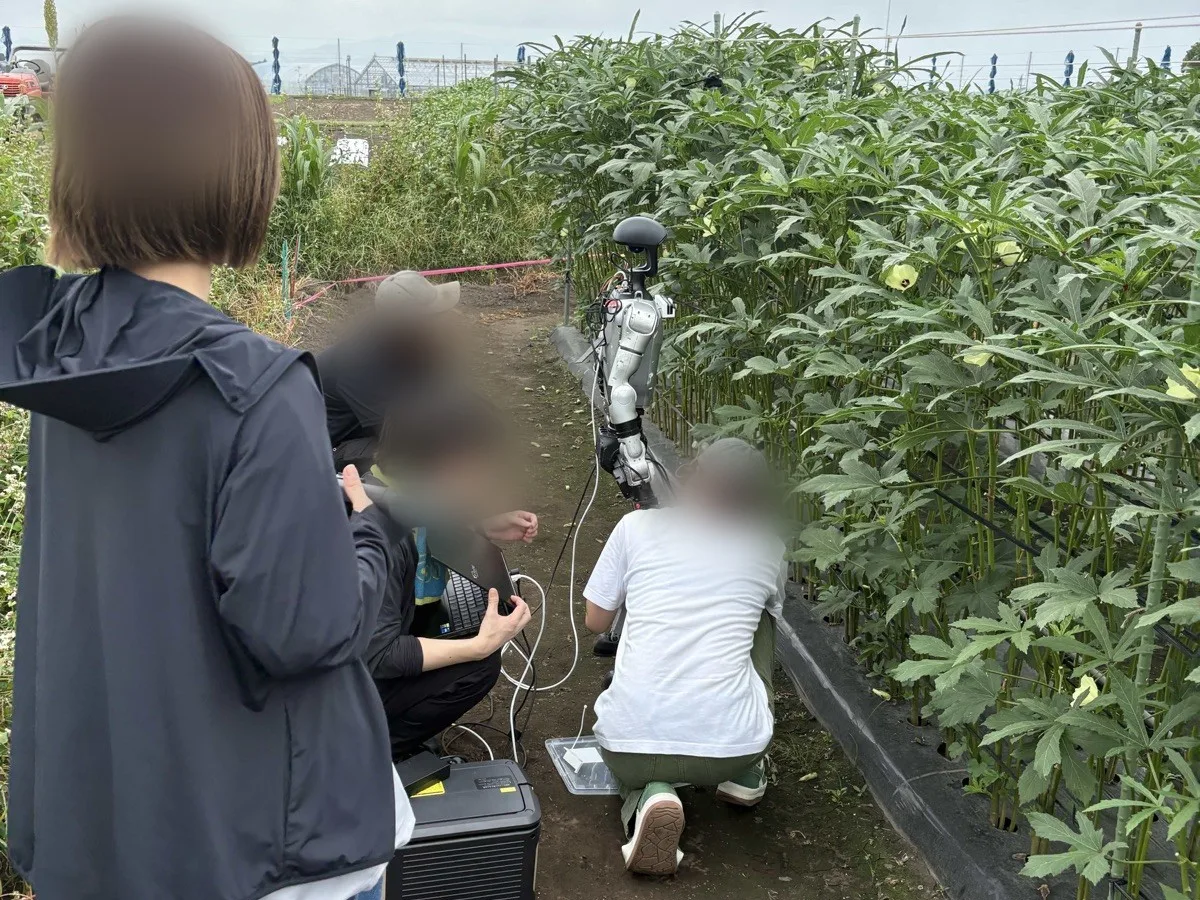
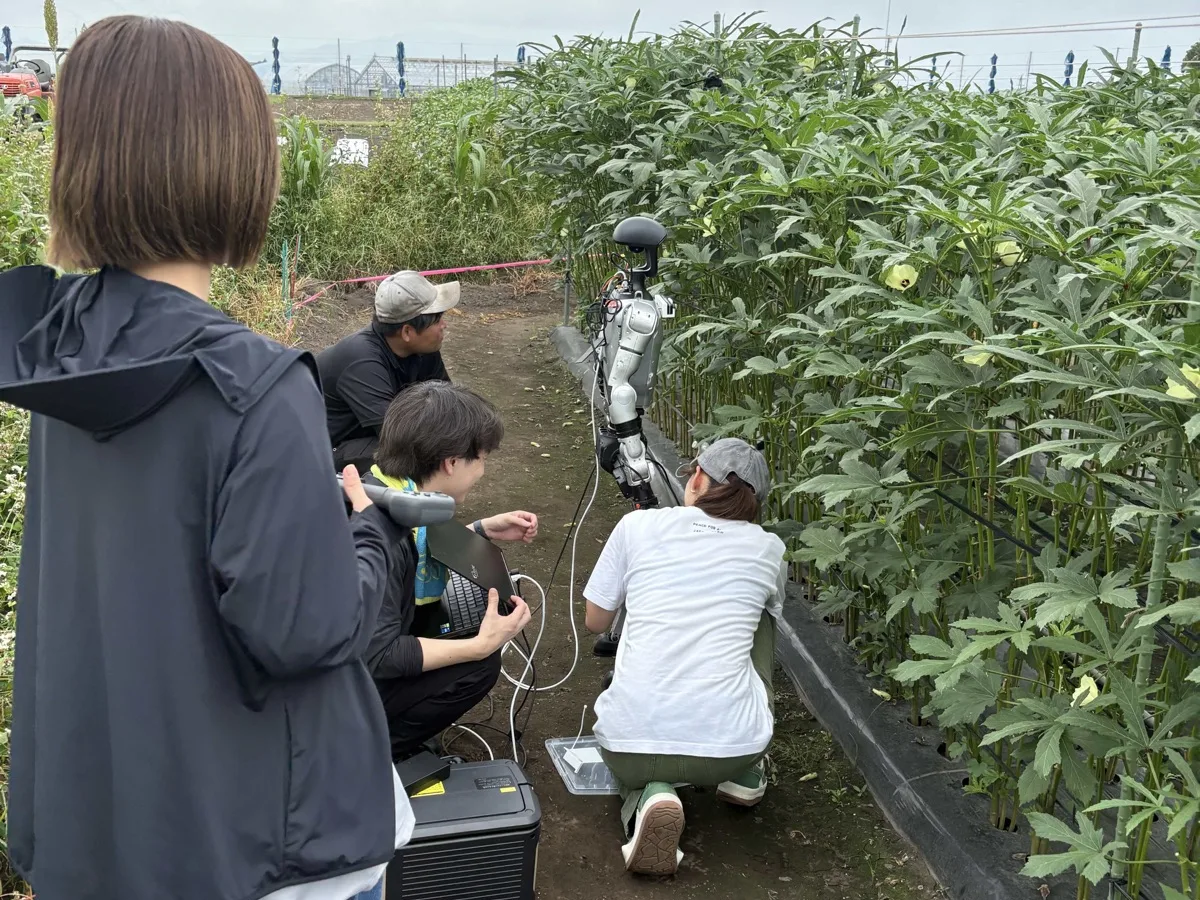
feat: replace hero image with VR teleop photo, unblur field photo
- Hero: unitree_robot_g1.webp → vr_teleop_workshop.webp (IC deck p1 photo)
- embed_field.webp: replaced with unblurred original (same 1200x900 crop)

diff --git a/src/components/Hero.tsx b/src/components/Hero.tsx
@@ -6,7 +6,7 @@ import { WHY_FDE_SECTION_ID } from './FDE';
 const DISCORD_URL = 'https://discord.gg/fDAWmeTV6f';
 const CONTACT_FORM_URL = 'https://tally.so/r/2EzoQg';
 
-import unitreeRobotWebp from '@/assets/hero/unitree_robot_g1.webp';
+import heroTeleopWebp from '@/assets/hero/vr_teleop_workshop.webp';
 
 export const HERO_SECTION_ID = 'hero-section';
 
@@ -26,7 +26,7 @@ export function HeroSection() {
     >
       {/* Full-bleed robot image */}
       <img
-        src={unitreeRobotWebp}
+        src={heroTeleopWebp}
         alt=""
         aria-hidden
         className="absolute inset-0 w-full h-full object-cover object-center"
